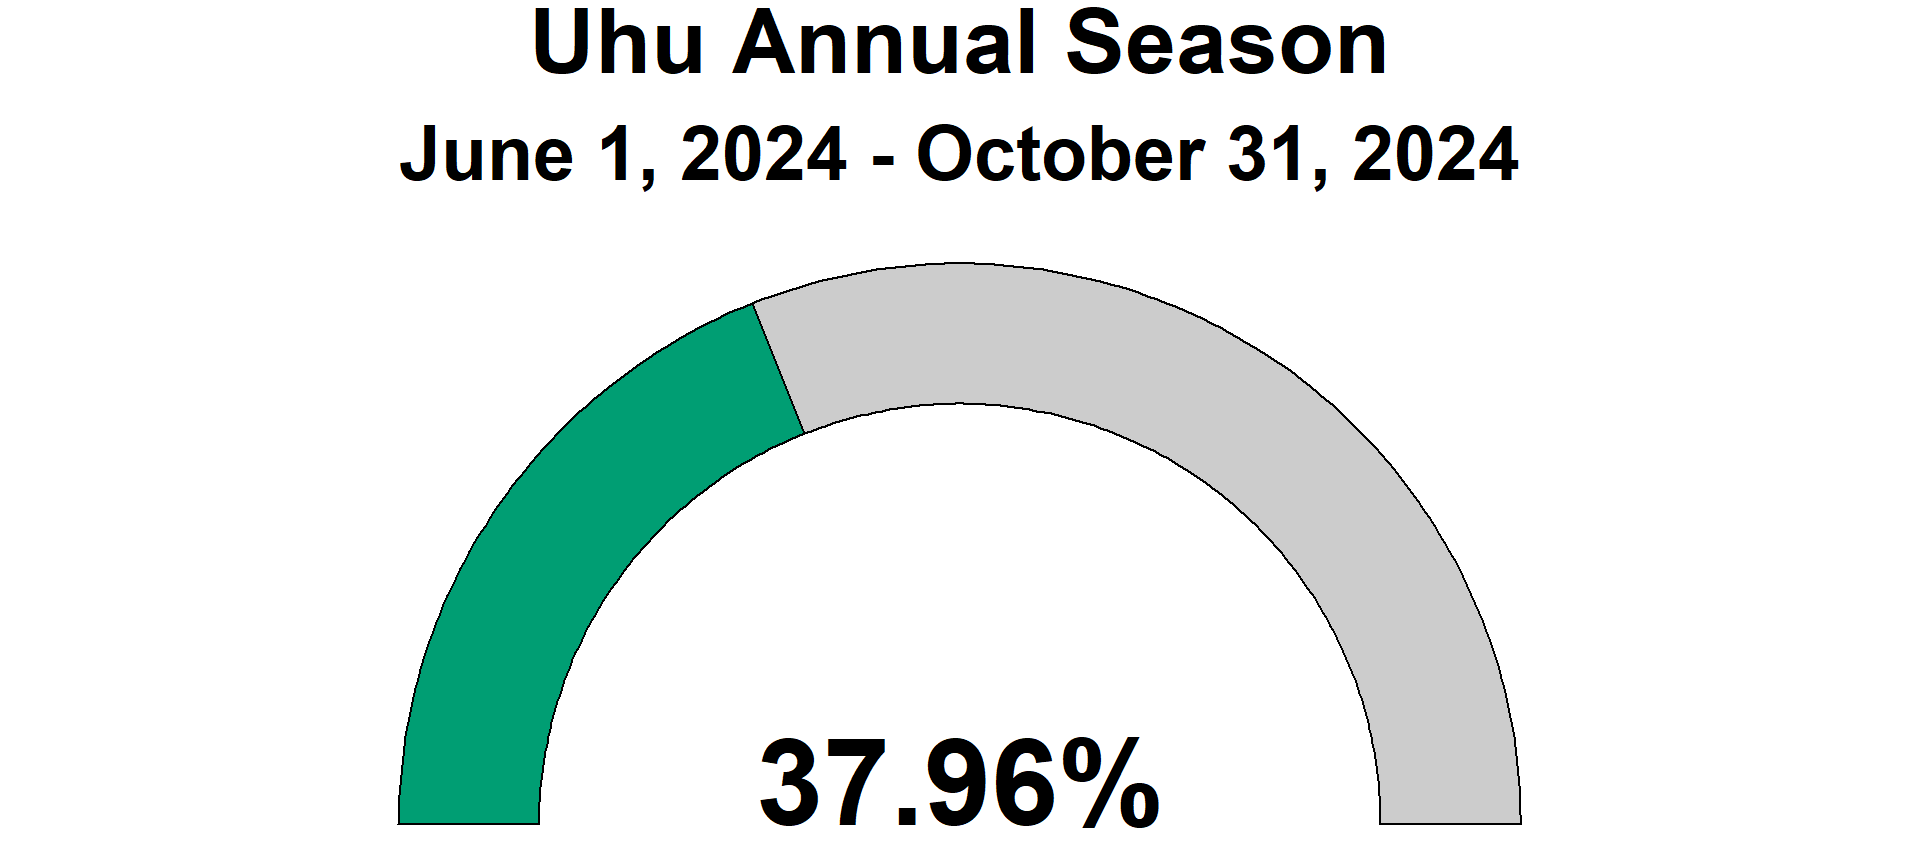
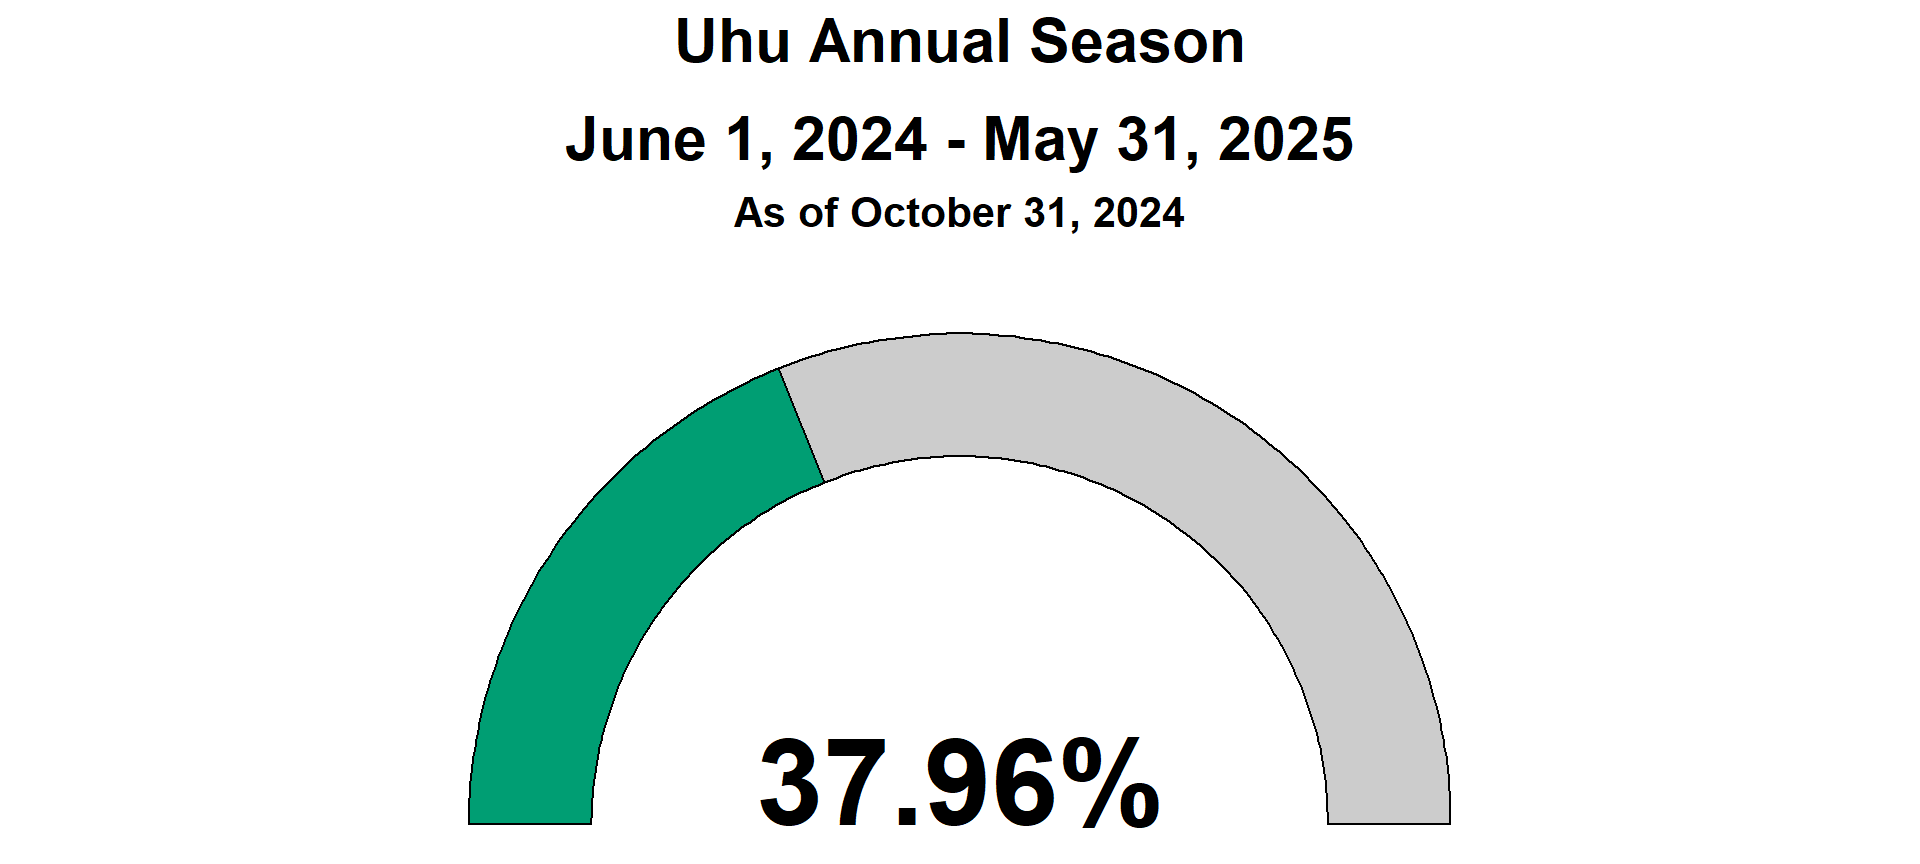
Incoorporate feedback for Gauge Plots

Changed region(s): [[0.1875, 0.125, 0.8125, 0.9688], [0.2812, 0.0, 0.7188, 0.0938]]

diff --git a/deep_seven_dashboard.html b/deep_seven_dashboard.html
@@ -648,7 +648,7 @@ window.document.addEventListener("DOMContentLoaded", function (event) {
     <div class="nav-footer-left">
       <ul class="footer-items list-unstyled">
     <li class="nav-item">
- Data updated as of November 25, 2024
+ Data updated as of November 27, 2024
   </li>  
 </ul>
     </div>   

diff --git a/index.html b/index.html
@@ -612,7 +612,7 @@ window.document.addEventListener("DOMContentLoaded", function (event) {
     <div class="nav-footer-left">
       <ul class="footer-items list-unstyled">
     <li class="nav-item">
- Data updated as of November 25, 2024
+ Data updated as of November 27, 2024
   </li>  
 </ul>
     </div>   

diff --git a/kala_uhu_dashboard.html b/kala_uhu_dashboard.html
@@ -632,7 +632,7 @@ window.document.addEventListener("DOMContentLoaded", function (event) {
     <div class="nav-footer-left">
       <ul class="footer-items list-unstyled">
     <li class="nav-item">
- Data updated as of November 25, 2024
+ Data updated as of November 27, 2024
   </li>  
 </ul>
     </div>   
